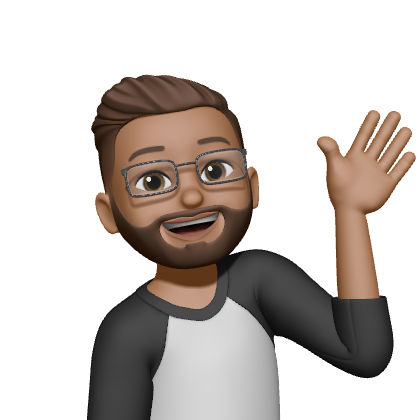
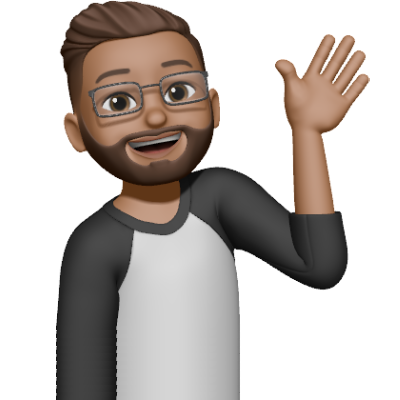
fixed overflow of memoji

diff --git a/src/components/title.jsx b/src/components/title.jsx
@@ -12,18 +12,16 @@ function title(){
             <img className="top-camera" src={cam} alt="camera" height="150px" width="150px" />
             <img className="top-plane" src={plane} alt="aeroplane" height="150px" width="200px" />
             <div className="row flex-lg-row-reverse align-items-center g-5 pt-5">
-              <div className="col-10 col-sm-8 col-lg-6">
-                <img src={memoji} className="d-block mx-lg-auto img-fluid meme" alt="Memoji" height="700px" loading="lazy" />
+              <div className="col-lg-8 overflow-hidden memoji">
+                <img src={memoji} className="d-block mx-lg-auto img-fluid position-relative meme" alt="Memoji" height="700px" loading="lazy" />
               </div>
-              <div className="col-lg-6">
-                <h1 className="display-3 fw-bold text-body-emphasis lh-1 mb-4 typewriter">Hello!</h1>
+              <div className="col-lg-4">
+                <h1 className="display-1 fw-bold text-body-emphasis mb-4 typewriter">Hello!</h1>
                 <p className="lead" id="title-name">This is Abhineet Saha</p>
                 <p className="lead" id="title-name">An 18 year old programmer</p>
-                <div className="d-grid gap-2 d-md-flex justify-content-md-start">
                 </div>
               </div>
             </div>
-          </div>
     </section>
     )
 }

diff --git a/src/components/CSS/title.css b/src/components/CSS/title.css
@@ -26,21 +26,25 @@
 }
 
 #title{
-    height: 68.8vh;
+    height: 65.8vh;
     padding-top: 177px;
+    overflow: hidden;
 }
 
+.meme{
+    margin-top: 40px;
+}
 .top-camera {
     position: absolute;
     right: 300px;
     top: 140px;
     overflow-clip-margin: content-box;
-    overflow: clip;
+    overflow: hidden;
 }
 .top-plane{
     position: absolute;
     right: 700px;
     top: 140px;
     overflow-clip-margin: content-box;
-    overflow: clip;
+    overflow: hidden;
 }

diff --git a/src/components/navbar.jsx b/src/components/navbar.jsx
@@ -13,7 +13,7 @@ function navbar(){
           <ul>
             <li><a href="#">Home</a></li>
             <li><a href="#me">About</a></li>
-            <li><a href="#experience">Skills</a></li>
+            <li><a href="#skills">Skills</a></li>
             <li><a href="#contact">Contacts</a></li>
           </ul>
         </nav>
